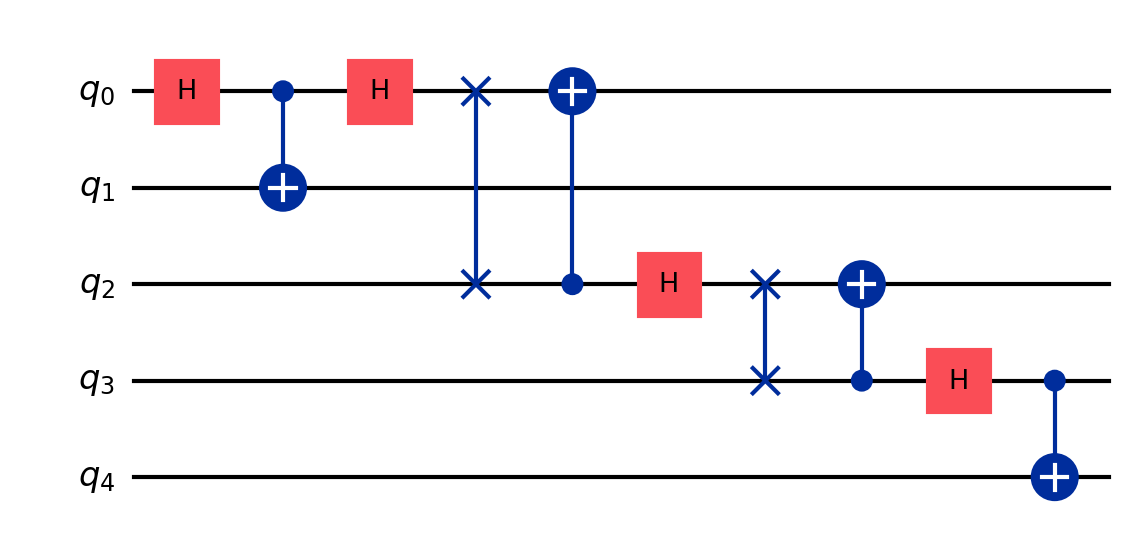
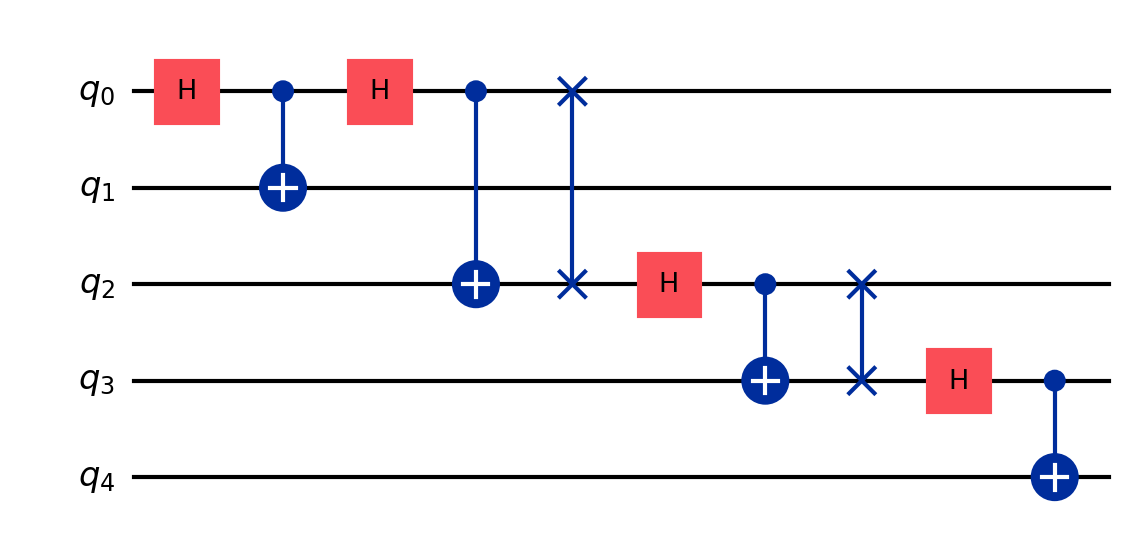
Fixed swap order

diff --git a/crates/accelerate/src/star_prerouting.rs b/crates/accelerate/src/star_prerouting.rs
@@ -152,7 +152,7 @@ fn process_block(
     let mut swap_source = false;
 
     // Process each node in the block
-    for inner_node in sequence {
+    for (i, inner_node) in sequence.iter().enumerate() {
         println!("inner_node: {:?}", inner_node);
 
         // Apply operation directly if it's a single-qubit operation or the same as previous qargs
@@ -172,9 +172,10 @@ fn process_block(
         // Place 2q-gate and subsequent swap gate
         apply_operation(qubit_mapping, dag, inner_node, gate_order, out_map);
 
-        if let Some(last) = last_2q_gate {
-            if inner_node != last && inner_node.1.len() == 2 {
-                apply_swap(qubit_mapping, dag, &inner_node.1, gate_order, out_map);
+        if inner_node != last_2q_gate.unwrap() && inner_node.1.len() == 2 {
+            if let Some(next_node) = sequence.get(i + 1).cloned() {
+                // Use the node ID of the next node in the sequence
+                apply_swap(qubit_mapping, dag, &inner_node.1, next_node.0, out_map);
             }
         }
 
@@ -195,7 +196,7 @@ fn apply_operation(
     qubit_mapping: &mut Vec<usize>,
     dag: &mut SabreDAG,
     node: &Nodes,
-    gate_order: &mut Vec<usize>,
+    gate_order: &mut Vec<usize>, 
     out_map: &mut HashMap<usize, Vec<[PhysicalQubit; 2]>>,
 ) {
     // Remap the qubits based on the current qubit mapping
@@ -223,7 +224,10 @@ fn apply_operation(
         }
     }
 
-    out_map.insert(node.0, vec![]);
+    // if out_map does not contain the node id, insert it with an empty vector
+    if !out_map.contains_key(&node.0) {
+        out_map.insert(node.0, vec![]);
+    }
 }
 
 /// Applies a swap operation to the DAG and updates the qubit mapping.
@@ -237,19 +241,17 @@ fn apply_swap(
     qubit_mapping: &mut Vec<usize>,
     dag: &mut SabreDAG,
     qargs: &Vec<VirtualQubit>,
-    gate_order: &mut Vec<usize>,
+    next_node_id: usize,
     out_map: &mut HashMap<usize, Vec<[PhysicalQubit; 2]>>,
 ) {
     // Apply the swap operation in the `dag`
     // Update the `qubit_mapping` to reflect the swap
-    println!("gate_order: {:?}", gate_order);
-    println!("last gate: {:?}", gate_order.last().unwrap());
     if qargs.len() == 2 {
         let idx0 = qargs[0].index();
         let idx1 = qargs[1].index();
 
         qubit_mapping.swap(idx0, idx1);
-        out_map.insert(gate_order.last().unwrap().clone(), vec![
+        out_map.insert(next_node_id, vec![
             [
                 PhysicalQubit::new(qubit_mapping[idx0].try_into().unwrap()), 
                 PhysicalQubit::new(qubit_mapping[idx1].try_into().unwrap())

diff --git a/qiskit/transpiler/passes/routing/sabre_swap.py b/qiskit/transpiler/passes/routing/sabre_swap.py
@@ -403,6 +403,7 @@ def _apply_sabre_result(
             print("node_id", node_id)
             node = source_dag._multi_graph[node_id]
             if node_id in swap_map:
+                print(" Swapping node_id: ", node_id, " swap_map[node_id]: ", swap_map[node_id])
                 apply_swaps(dest_dag, swap_map[node_id], layout)
             if not isinstance(node.op, ControlFlowOp):
                 dest_dag.apply_operation_back(

diff --git a/test/python/transpiler/test_star_prerouting.py b/test/python/transpiler/test_star_prerouting.py
@@ -56,6 +56,7 @@ class TestStarPreRouting(QiskitTestCase):
         # expected.swap(3,4)
 
         new_qc.draw("mpl", filename="ghz_star_prerouting.png")
+        expected.draw("mpl", filename="ghz_star_prerouting_expected.png")
 
         self.assertTrue(Operator(expected).equiv(Operator(new_qc)))
 
